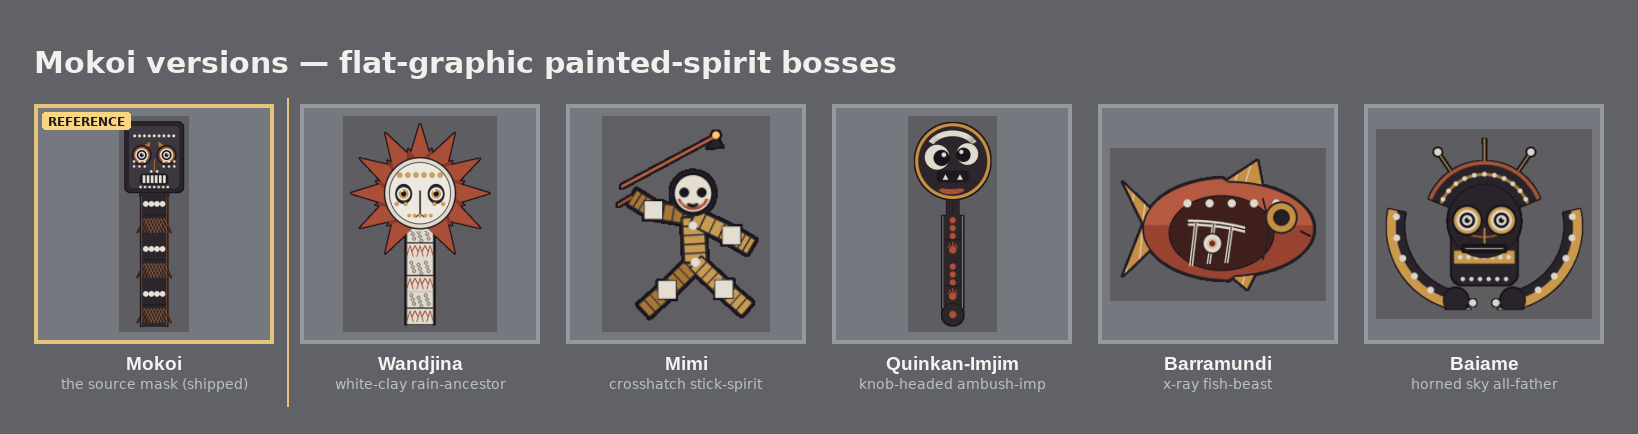
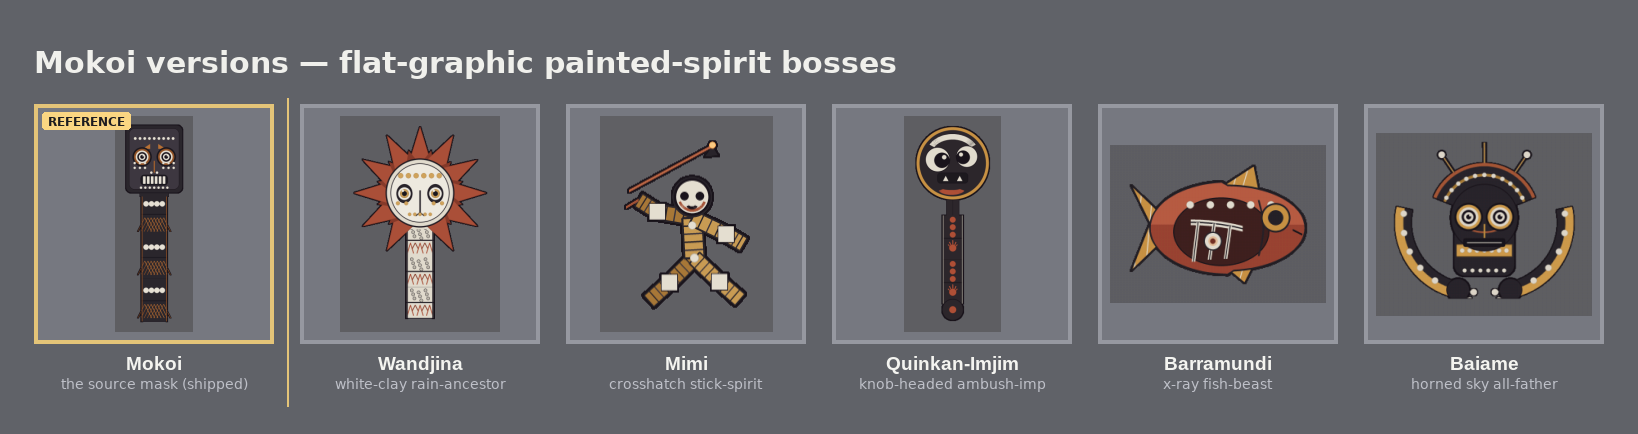
skybit broods: re-crop Mokoi showcase so all characters are whole

diff --git a/docs/skybit_devil/batch2/mokoi_versions/build_showcase.py b/docs/skybit_devil/batch2/mokoi_versions/build_showcase.py
@@ -36,38 +36,38 @@ REF_TAG = (250, 214, 130)
 TILES = [
     {
         "file": "docs/skybit_devil/batch2/leyak_epic/mokoi/round_2.png",
-        "crop": (97, 109, 161, 492),
+        "crop": (85, 101, 185, 512),
         "name": "Mokoi",
         "facet": "the source mask (shipped)",
         "reference": True,
     },
     {
         "file": "docs/skybit_devil/batch2/mokoi_versions/wandjina/round_2.png",
-        "crop": (72, 107, 264, 369),
+        "crop": (60, 101, 288, 387),
         "name": "Wandjina",
         "facet": "white-clay rain-ancestor",
     },
     {
         "file": "docs/skybit_devil/batch2/mokoi_versions/mimi/round_2.png",
-        "crop": (94, 264, 149, 191),
+        "crop": (82, 252, 173, 215),
         "name": "Mimi",
         "facet": "crosshatch stick-spirit",
     },
     {
         "file": "docs/skybit_devil/batch2/mokoi_versions/quinkan_imjim/round_2.png",
-        "crop": (87, 110, 181, 435),
+        "crop": (75, 101, 205, 456),
         "name": "Quinkan-Imjim",
         "facet": "knob-headed ambush-imp",
     },
     {
         "file": "docs/skybit_devil/batch2/mokoi_versions/barramundi/round_2.png",
-        "crop": (72, 286, 240, 170),
+        "crop": (60, 274, 264, 194),
         "name": "Barramundi",
         "facet": "x-ray fish-beast",
     },
     {
         "file": "docs/skybit_devil/batch2/mokoi_versions/baiame/round_2.png",
-        "crop": (78, 102, 259, 228),
+        "crop": (66, 101, 283, 241),
         "name": "Baiame",
         "facet": "horned sky all-father",
     },
